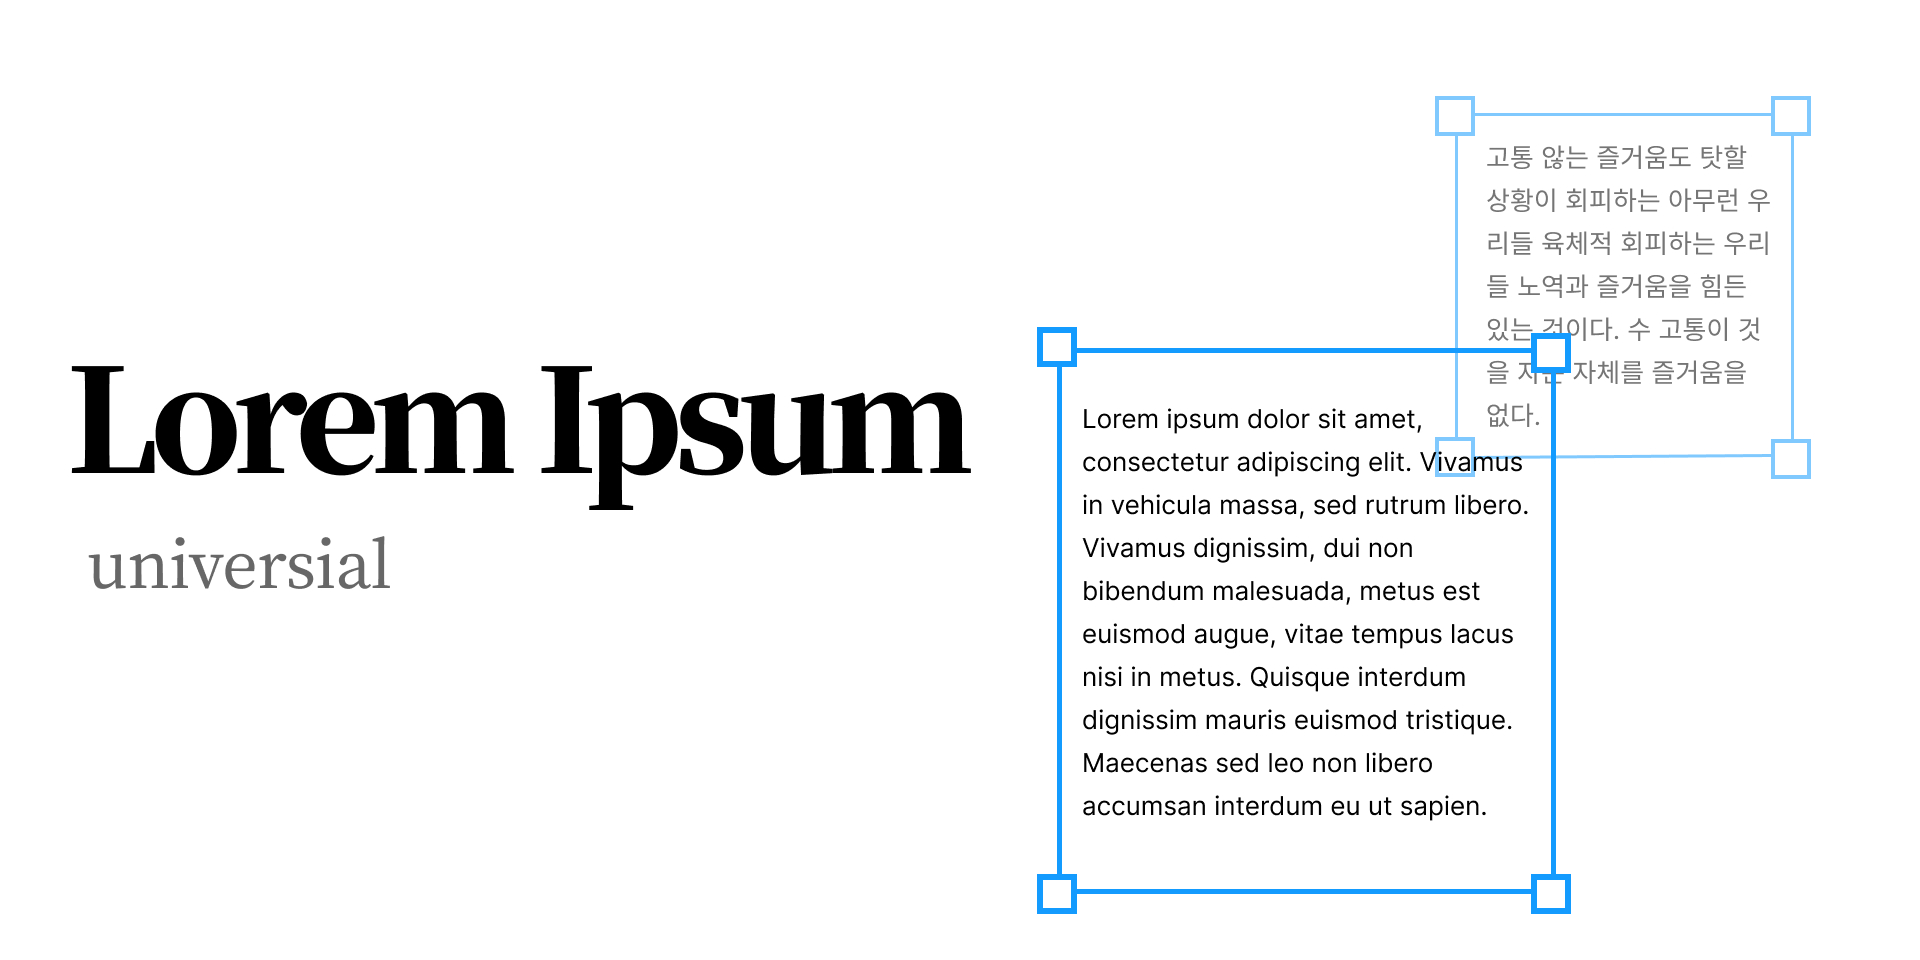
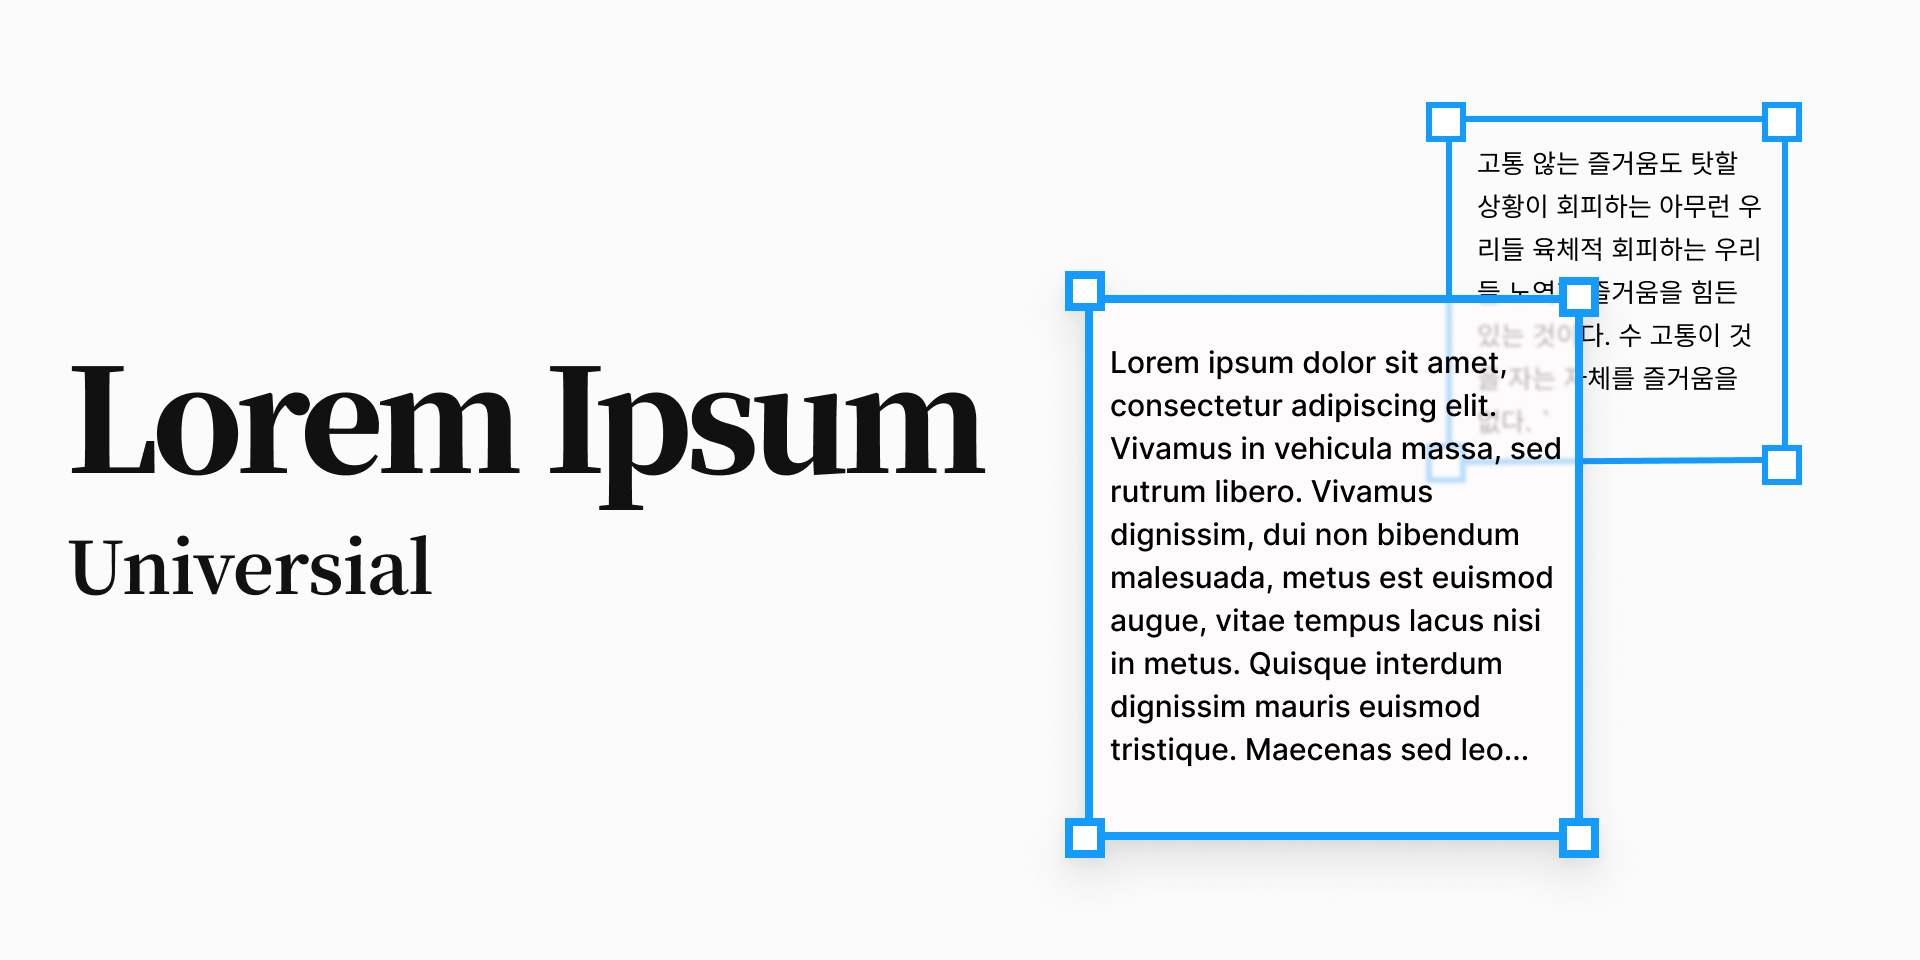
feat: en support (#1)
* chore: eslint hooks

* feat: support en

* docs: update cover art

Changed region(s): [[0.5312, 0.0938, 0.9688, 0.9688], [0.0938, 0.375, 0.5312, 0.5312], [0.0312, 0.5625, 0.2188, 0.625]]

diff --git a/src/ui.tsx b/src/ui.tsx
@@ -1,9 +1,10 @@
 import { Box, NumberInput, Button, Group, Select } from '@mantine/core';
-import React, { FormEvent, useCallback } from 'react';
+import React, { FormEvent, useCallback, useState } from 'react';
 import ReactDOM from 'react-dom';
-import { BASE_KO, generateRandomText } from './content';
+import { CONTENT, generateRandomText } from './content';
 import { PluginMessage } from './model';
 
+type Language = 'ko' | 'en';
 interface FormValue {
   language: {
     value: 'ko' | 'en';
@@ -14,23 +15,29 @@ interface FormValue {
 }
 
 function App() {
-  const handleCreate = useCallback((e: FormEvent<HTMLFormElement>) => {
-    e.preventDefault();
+  const [language, setLanguage] = useState<Language>('ko');
+  const handleCreate = useCallback(
+    (e: FormEvent<HTMLFormElement>) => {
+      e.preventDefault();
 
-    const formTarget = e.target as unknown as FormValue;
-    const content = generateRandomText({
-      paragraphCount: formTarget.paragraphs.value,
-      baseSource: BASE_KO,
-    });
+      const formTarget = e.target as unknown as FormValue;
+      console.log('language', language);
 
-    const pluginMessage: PluginMessage = {
-      type: 'create-text',
-      options: {
-        content,
-      },
-    };
-    parent.postMessage({ pluginMessage }, '*');
-  }, []);
+      const content = generateRandomText({
+        paragraphCount: formTarget.paragraphs.value,
+        baseSource: CONTENT[language],
+      });
+
+      const pluginMessage: PluginMessage = {
+        type: 'create-text',
+        options: {
+          content,
+        },
+      };
+      parent.postMessage({ pluginMessage }, '*');
+    },
+    [language]
+  );
 
   return (
     <Box sx={{ padding: '16px' }}>
@@ -44,12 +51,20 @@ function App() {
               label="Number of Paragraphs"
               required
             />
+            {/**
+             * mantine does not support uncontrolled
+             * https://github.com/mantinedev/mantine/issues/1137
+             */}
             <Select
               name="language"
               label="Language"
               placeholder="Pick one"
-              defaultValue="ko"
-              data={[{ value: 'ko', label: 'Korean' }]}
+              value={language}
+              data={[
+                { value: 'ko', label: 'Korean' },
+                { value: 'en', label: 'English' },
+              ]}
+              onChange={v => setLanguage(v as Language)}
             />
           </Group>
           <Button type="submit">Create</Button>

diff --git a/src/content.ts b/src/content.ts
@@ -1,6 +1,13 @@
-export const BASE_KO =
+const BASE_KO =
   '역시 마찬가지로, 단순히 고통이라는 이유 때문에 고통 그 자체를 사랑하거나 추구하거나 소유하려는 자는 없다. 다만 노역과 고통이 아주 큰 즐거움을 선사하는 상황이 때로는 발생하기 때문에 고통을 찾는 사람이 있는 것이다. 간단한 예를 들자면, 모종의 이익을 얻을 수도 없는데 힘든 육체적 노력을 기꺼이 할 사람이 우리들 중에 과연 있겠는가? 하지만 귀찮은 일이 뒤따르지 않는 즐거움을 누리는 것을 선택한 사람, 혹은 아무런 즐거움도 생기지 않는 고통을 회피하는 사람을 누가 탓할 수 있겠는가?';
 
+const BASE_EN =
+  'Lorem ipsum dolor sit amet, consectetur adipiscing elit. Donec tincidunt ex quis elit malesuada convallis. Donec id ex nec nibh venenatis luctus non in nisl. Quisque ultrices ullamcorper nisi tempor placerat. Nunc volutpat at quam nec sollicitudin. Morbi non varius ex. Vestibulum risus nulla, facilisis non tincidunt at, elementum eu tortor. In porta turpis libero, id placerat dui tincidunt non. Ut sed urna vitae odio cursus sodales. Ut vel lacus eget elit tincidunt efficitur. Nam odio lacus, viverra commodo faucibus sit amet, scelerisque ac urna. Sed laoreet massa vehicula, maximus orci non, hendrerit enim. Nullam eget ipsum leo. Cras fringilla viverra felis, vitae faucibus dui. Nunc vitae ex dignissim, gravida diam lobortis, placerat est. Praesent quis sapien lorem.';
+
+export const CONTENT = {
+  ko: BASE_KO,
+  en: BASE_EN,
+};
 export function generateRandomText(params: {
   paragraphCount: number;
   baseSource: string;

diff --git a/src/code.ts b/src/code.ts
@@ -22,8 +22,6 @@ figma.ui.onmessage = (msg: PluginMessage) => {
   try {
     loadFonts().then(() => {
       if (msg.type === 'create-text') {
-        console.log('message in', msg);
-
         const textNode = figma.createText();
         textNode.characters = msg.options.content;
         textNode.resize(375, textNode.height);

diff --git a/.eslintrc.js b/.eslintrc.js
@@ -11,5 +11,9 @@ module.exports = {
     'plugin:import/recommended',
     'plugin:import/typescript',
   ],
-  plugins: ['@typescript-eslint', 'prettier'],
+  plugins: ['@typescript-eslint', 'prettier', 'react-hooks'],
+  rules: {
+    'react-hooks/rules-of-hooks': 'error',
+    'react-hooks/exhaustive-deps': 'error',
+  },
 };
